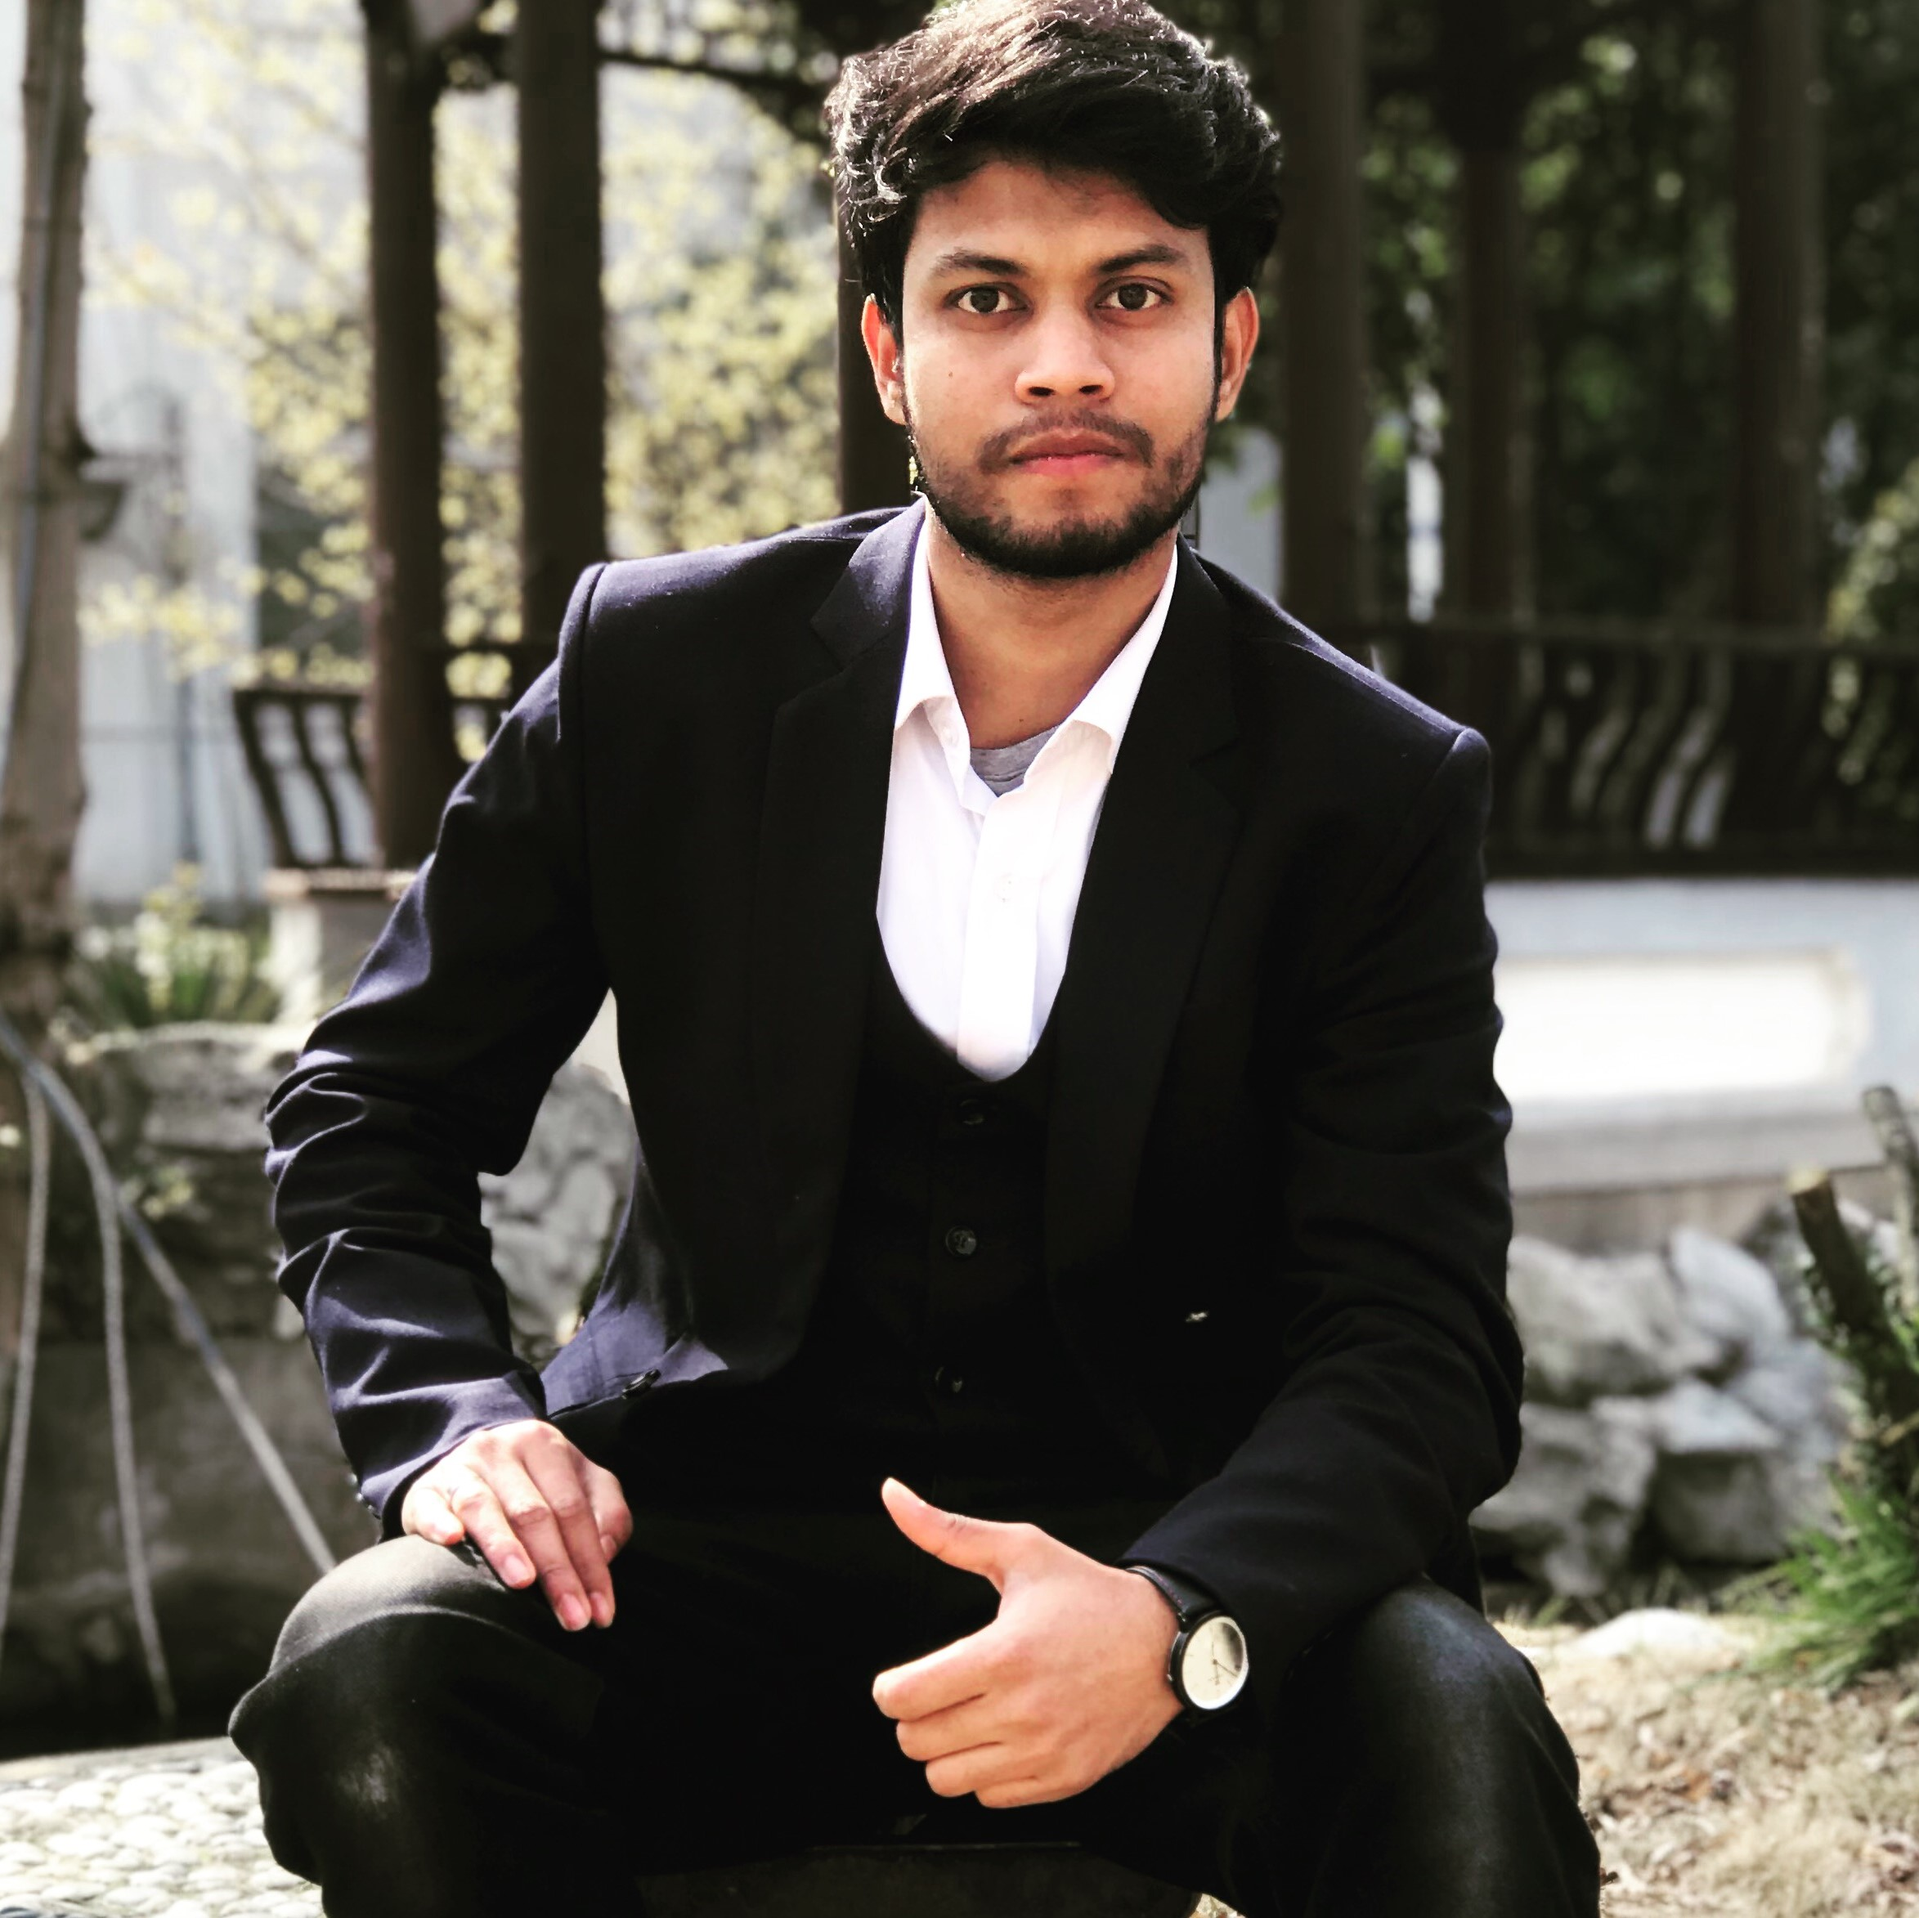
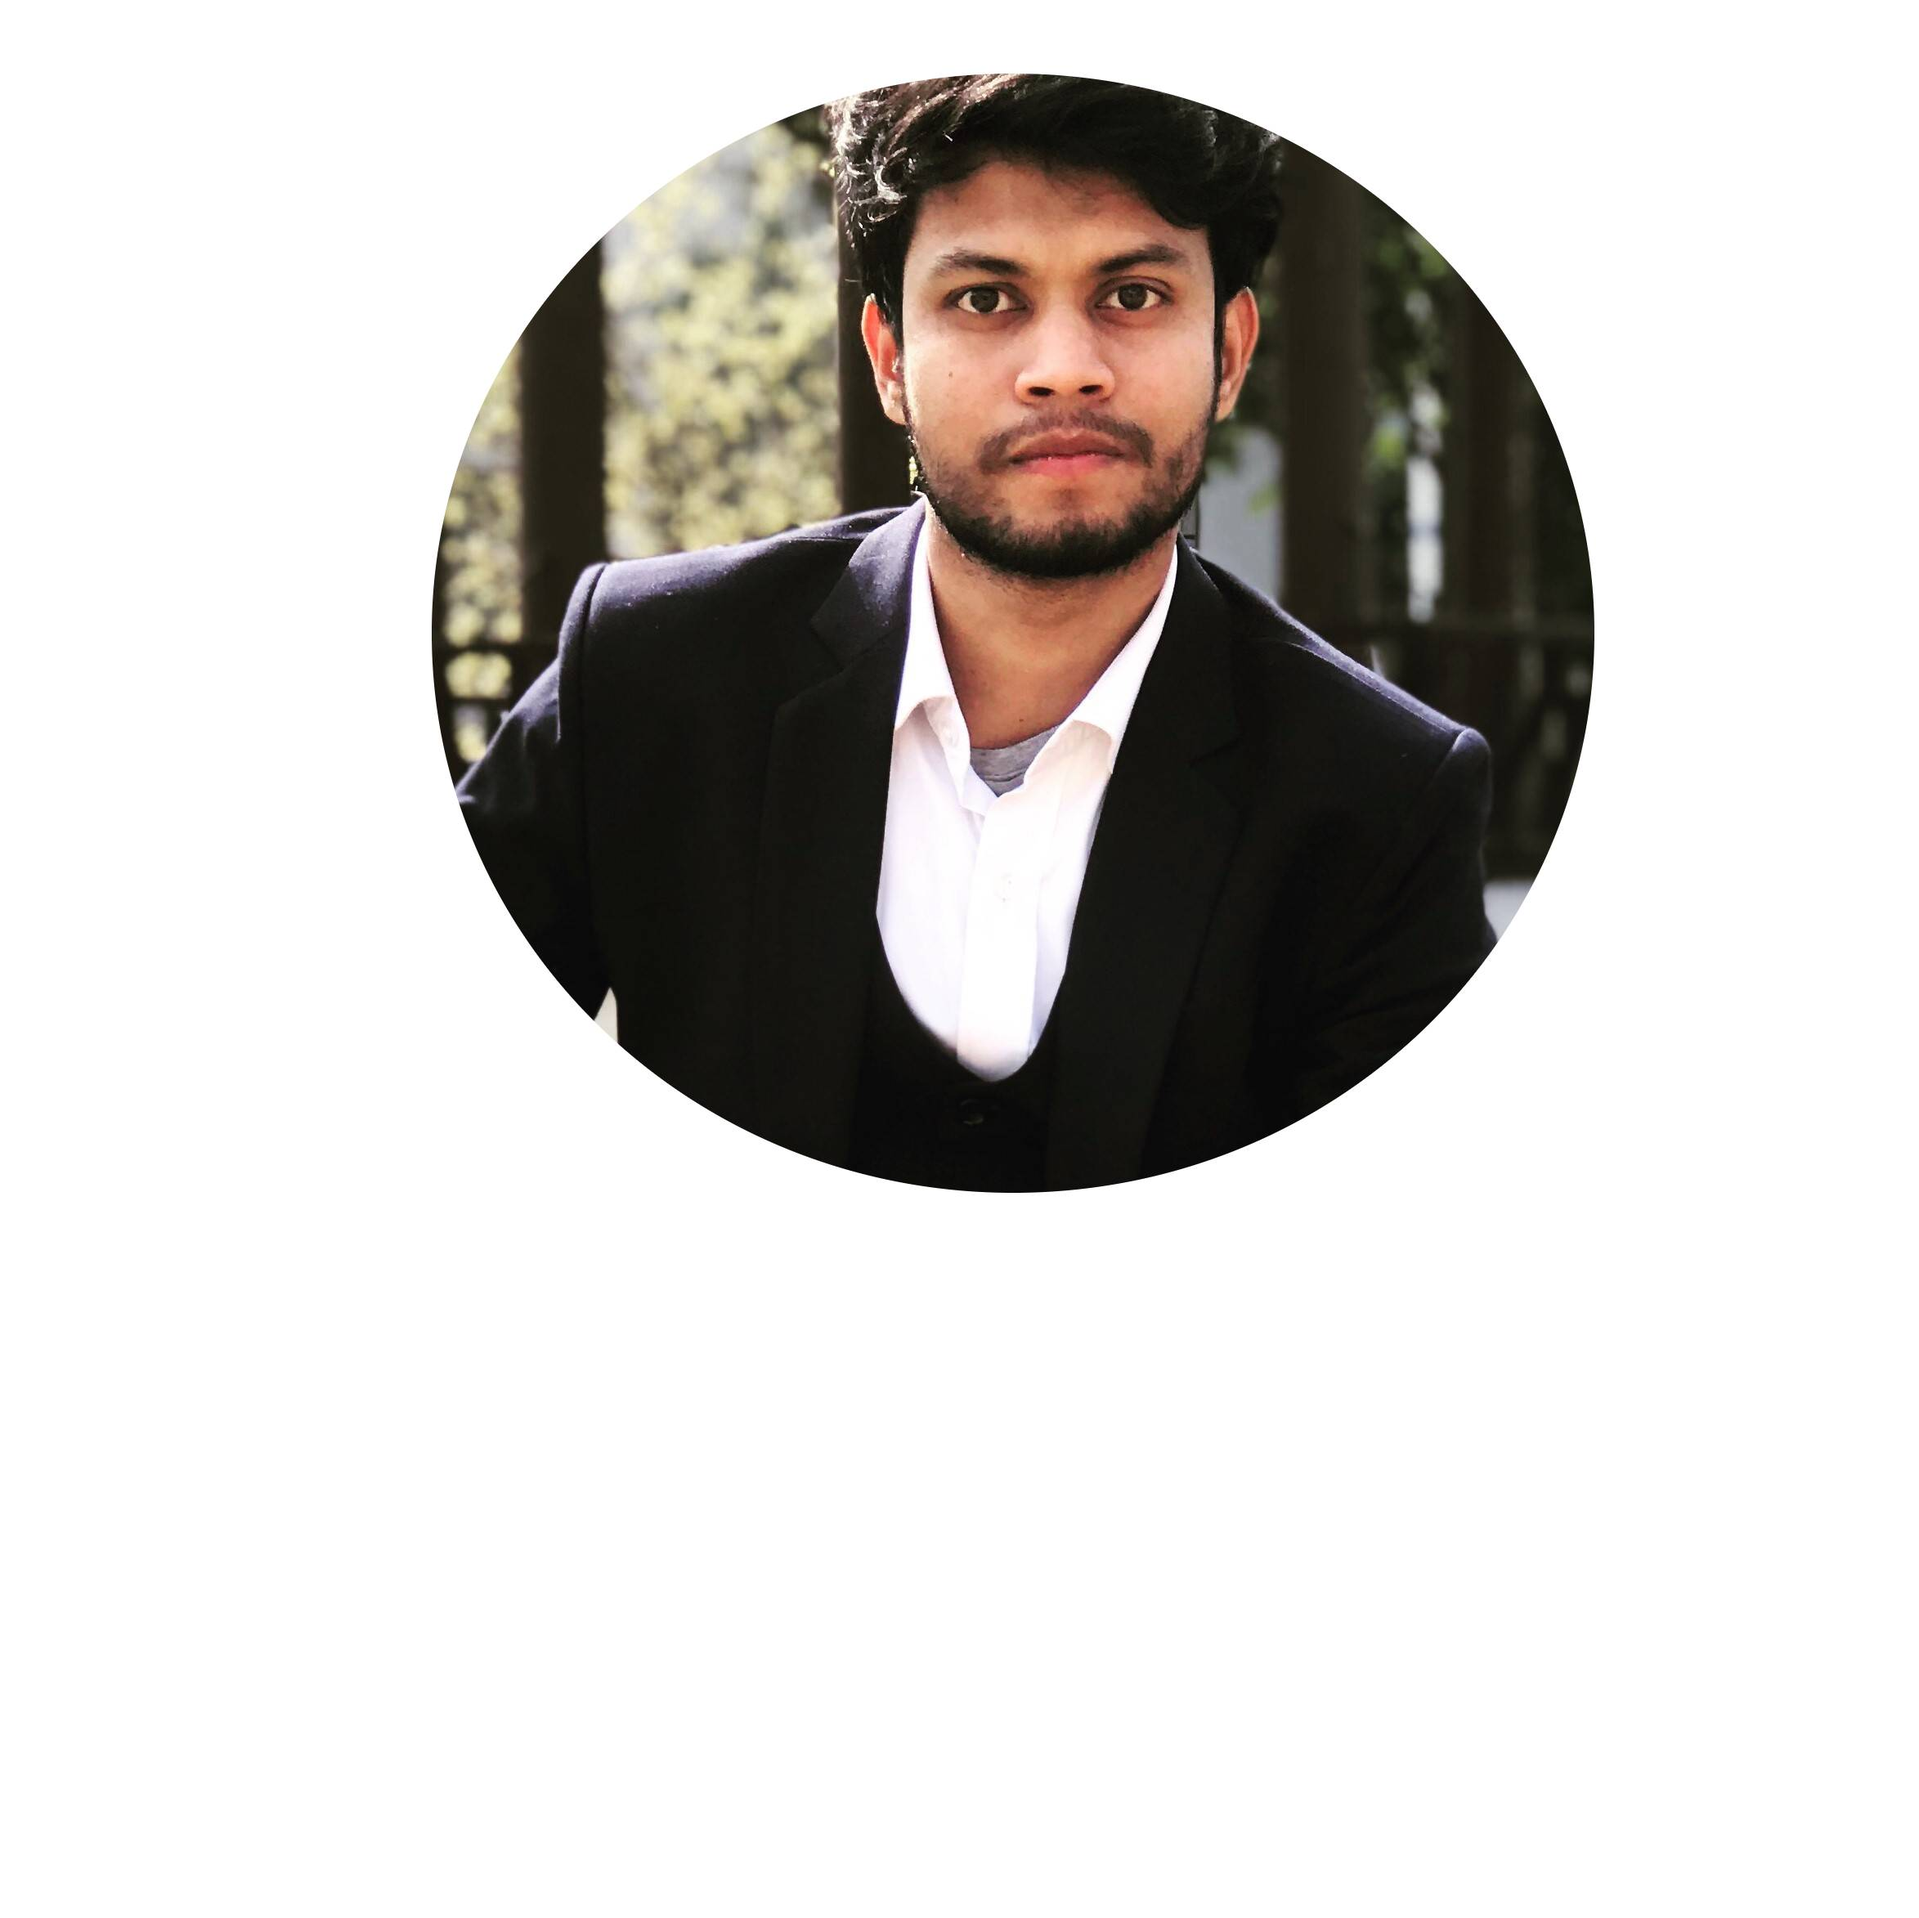
fgjfkgf

diff --git a/index.html b/index.html
@@ -6,22 +6,65 @@
     <meta name="viewport" content="width=device-width, initial-scale=1.0">
     <title>Akash talukder</title>
     <link rel="stylesheet" href="style.css">
+    <link rel="preconnect" href="https://fonts.googleapis.com">
+    <link rel="preconnect" href="https://fonts.gstatic.com" crossorigin>
+    <link href="https://fonts.googleapis.com/css2?family=Zen+Tokyo+Zoo&display=swap" rel="stylesheet">
 </head>
-<section>
-    <body>
+  <body>
+    <section class="back-pic">
+        <div class="width" >
+            <h1>
+                welcome to
+                
+            </h1>
+            <h1>
+               <span class="span-color"> Kabir Hossen's</span>  world
+            </h1>
+            <p class="tex-color"> Hi! My name is Kabir Hossen Akash. Welcome to my personal page that I've designed to showcase my  skills and expertise that I've accumulated over the year.</p>
+            <p> <a class="button-dg" target="_blank" href="https://www.linkedin.com/in/hossen-kabir-967500196">FOLLOW</a> </p>
+
+        </div>
+        <div class="width">
+              <img class="img-round" src="picture/num1.JPG" alt="">
+        </div>
+     </section>
+
+
+     <section>
+
+        <div class="width">
+            <img class="img-round" src="picture/num2.JPG" alt="">
+      </div>
+
         <div class="width">
             <h1>
                 welcome to
                 
             </h1>
             <h1>
-               <span class="span-color"> Kabir</span> Hossen's world
+               <span class="span-color"> Kabir Hossen's</span>  world
             </h1>
-            <p>Hi! My name is Kabir Hossen Akash. Welcome to my personal page that I've designed to showcase my  skills and expertise that I've accumulated over the year.</p>
+            <p class="tex-color"> I like to call myself"a Software Engineer & Web Developer" Call me a web addict! A curious knowledge seeker with an appetite to master in-depth wow technologies .</p>
+            <p> <a class="button-dg" target="_blank" href="https://drive.google.com/file/d/1jDDbN1h8XyHteq9JT_i3UW58ytYeoxOR/view"> CV DOWNLOAD</a> </p>
+
         </div>
-        <div class="width">
-              <img class="img-round" src="picture/num1.JPG" alt="">
-        </div>
-    </body>
-</section>
+        
+     </section>
+
+     <section>
+         <div>
+             <h1>ACHIEVEMENT</h1>
+         </div>
+         <div>
+           <h2>Yangzhou University</h2>
+           <p> Professionally, I’m a young software developer engineer , a web developer at Nielsen.That’s not the way you should look at me. I’m a performer,a community person who like to meet people,take initiative,overcome challenges,organize program and perform as a speaker and stand up comedian.   
+           </p>
+         </div>
+         <div>
+             <h2>Madhupur Collage</h2> 
+             <p> I like to call myself"a Software Engineer & Web Developer" Call me a web addict! A curious knowledge seeker with an appetite to master in-depth wow technologies . I went to apply all of them. Yes ,i want to be the Einstein of every single thing.wait a second, I don’t want to spend all of my life only in digging up stuff,I will create a lot of things to change the world 🌎 .</p>
+         </div>
+     </section>
+ </body>
+
 </html>

diff --git a/style.css b/style.css
@@ -8,10 +8,39 @@ section{
 }
 .width{
     width:50%;
+    padding: 30px;
+    margin: 10px;
+    
 }
 .width img{
- width: 70%;
+ width: 80%;
 }
-.img-round{
- border-radius: 110%;
+
+h1{
+    font-family: 'Zen Tokyo Zoo', cursive;
+}
+.button-dg{
+ text-decoration: none;
+ color: indigo;
+ background-image: linear-gradient(red,tomato);
+ border-radius: 05px;
+ width: 20%;
+ text-align: center;
+ padding: 2px 10px;
+}
+
+.back-pic{
+    background-image: url(picture/top-banner.png);
+    background-repeat: no-repeat;
+    margin: 0px;
+    
+    
+}
+
+.tex-color{
+    color: rgb(153, 0, 255);
+    font-style: italic;
+}
+body{
+margin: 0px;
 }
